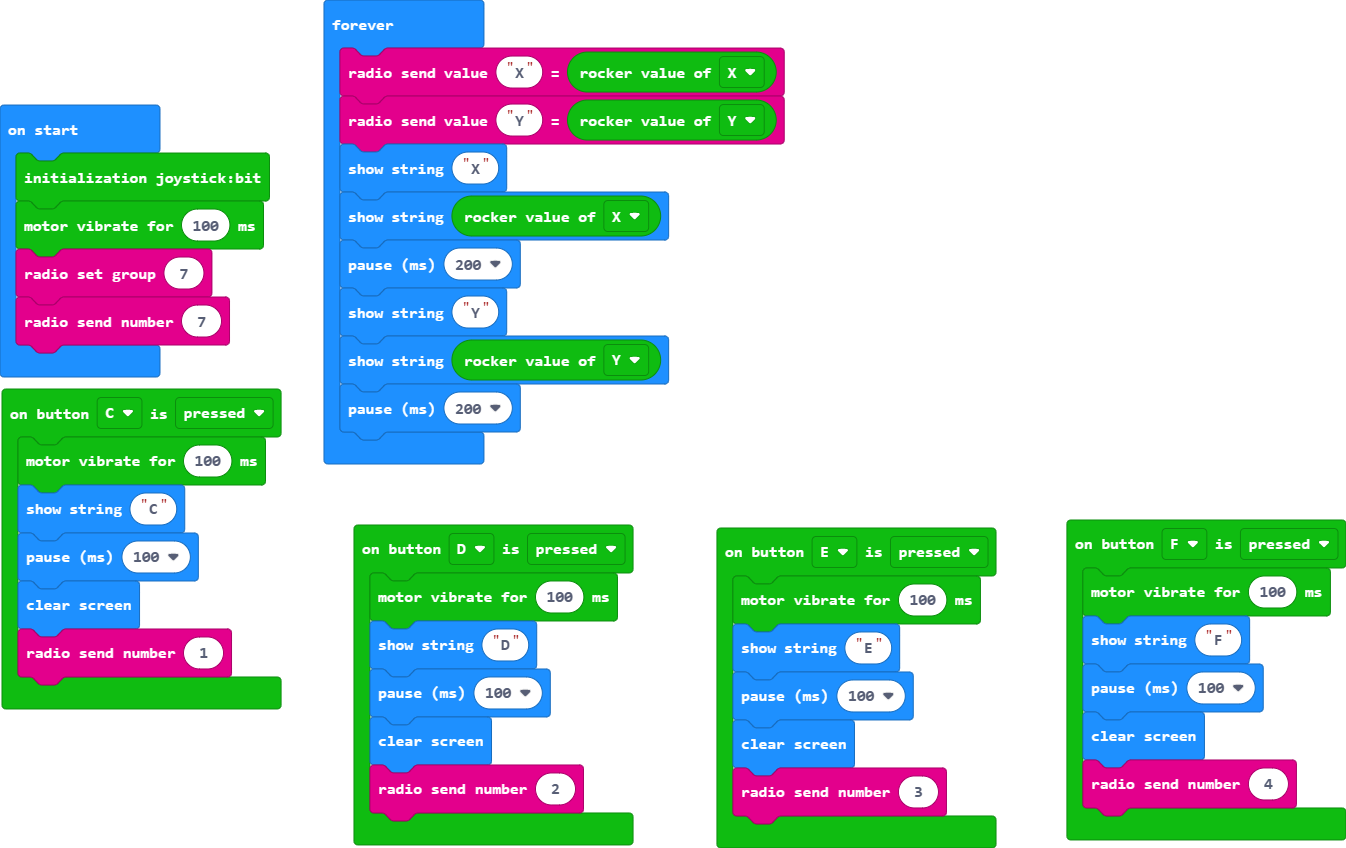
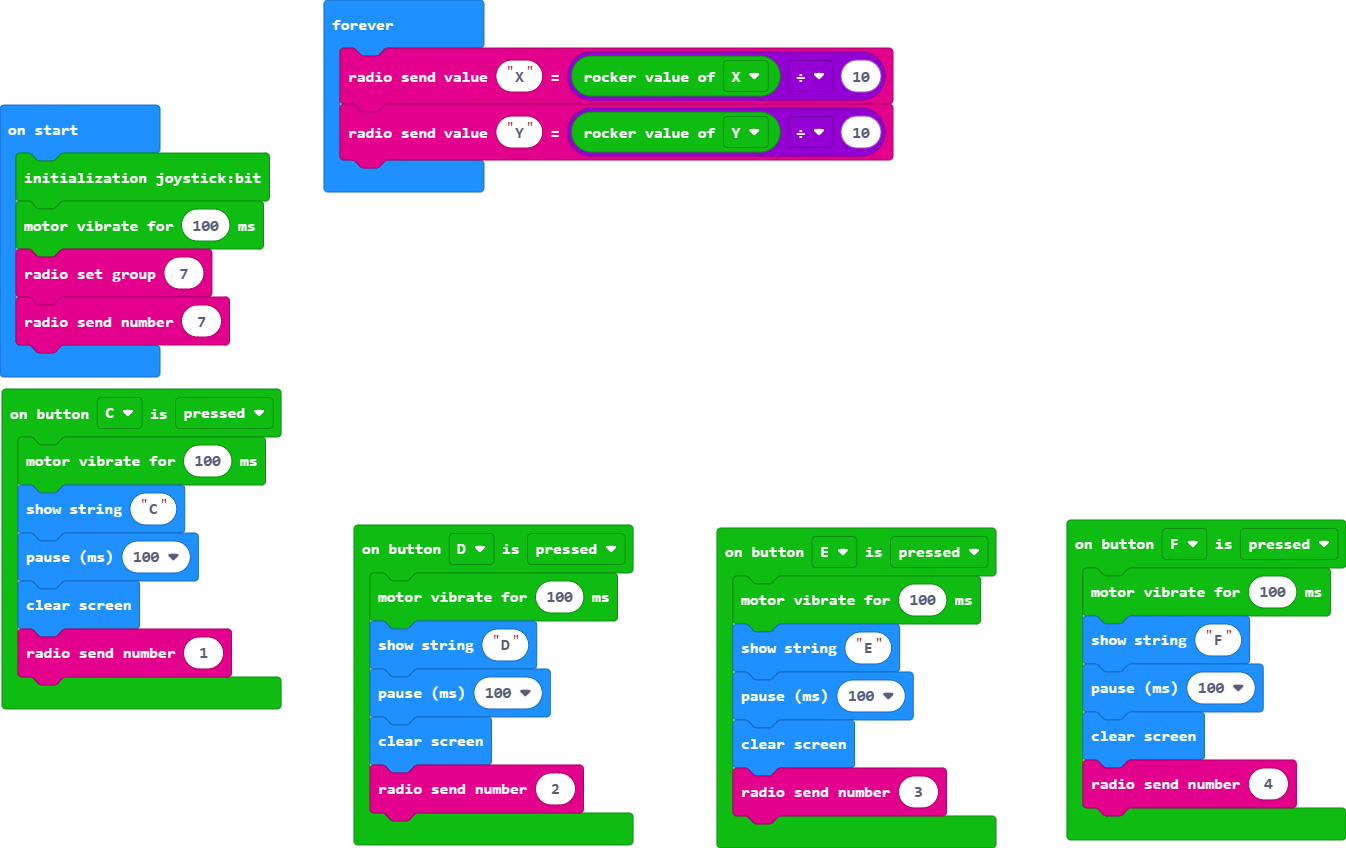
Update main.blocks, main.ts

Changed region(s): [[0.2184, 0.0307, 0.6865, 0.5519]]

diff --git a/main.ts b/main.ts
@@ -31,12 +31,6 @@ joystickbit.Vibration_Motor(100)
 radio.setGroup(7)
 radio.sendNumber(7)
 basic.forever(function () {
-    radio.sendValue("X", joystickbit.getRockerValue(joystickbit.rockerType.X))
-    radio.sendValue("Y", joystickbit.getRockerValue(joystickbit.rockerType.Y))
-    basic.showString("X")
-    basic.showString("" + (joystickbit.getRockerValue(joystickbit.rockerType.X)))
-    basic.pause(200)
-    basic.showString("Y")
-    basic.showString("" + (joystickbit.getRockerValue(joystickbit.rockerType.Y)))
-    basic.pause(200)
+    radio.sendValue("X", joystickbit.getRockerValue(joystickbit.rockerType.X) / 10)
+    radio.sendValue("Y", joystickbit.getRockerValue(joystickbit.rockerType.Y) / 10)
 })
